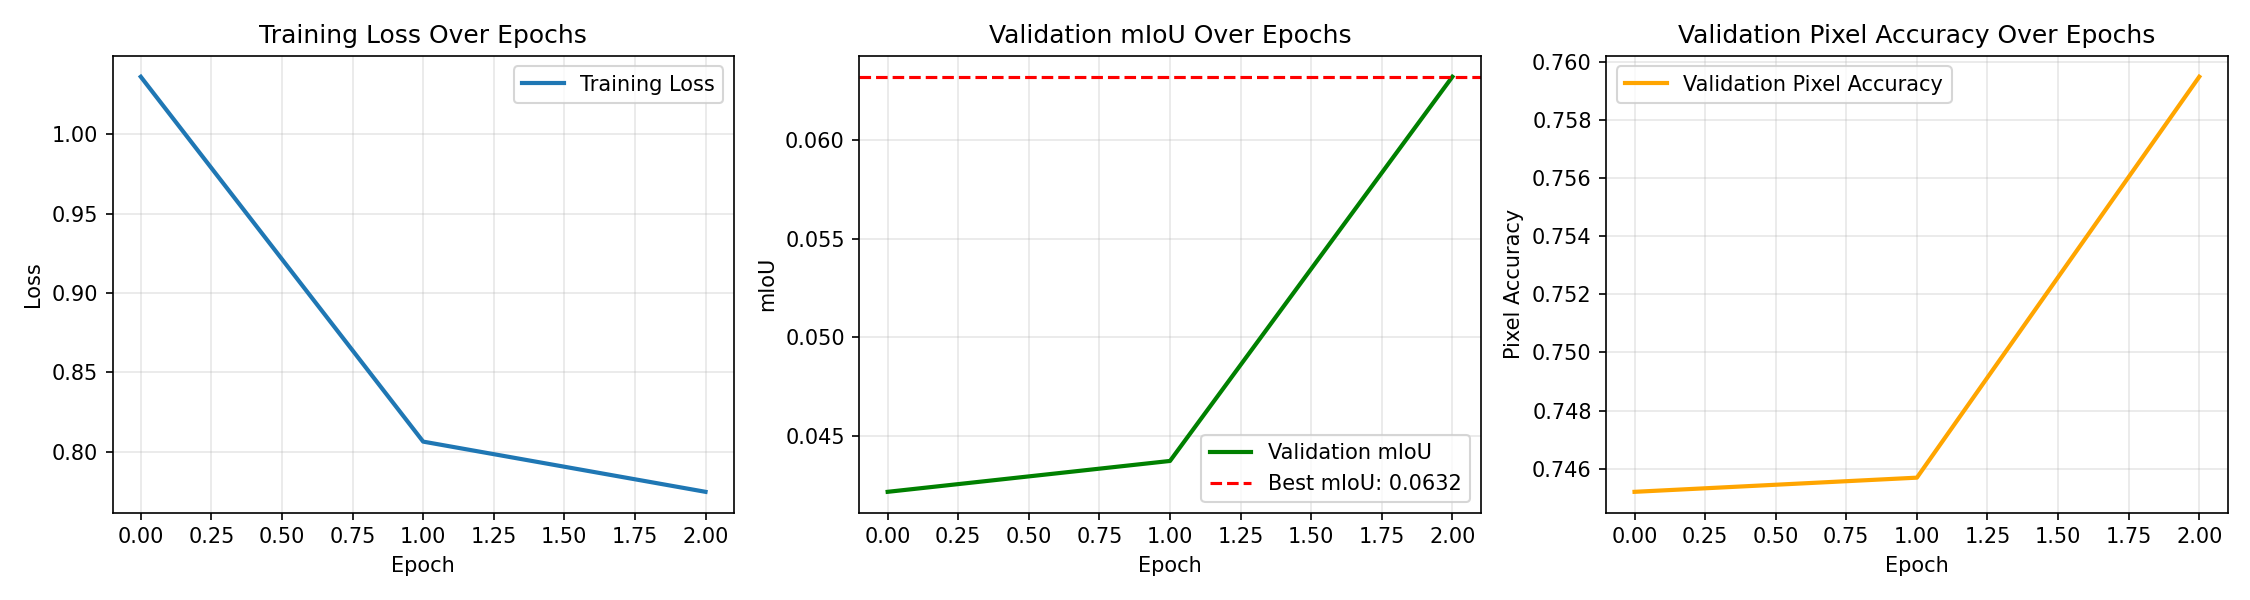
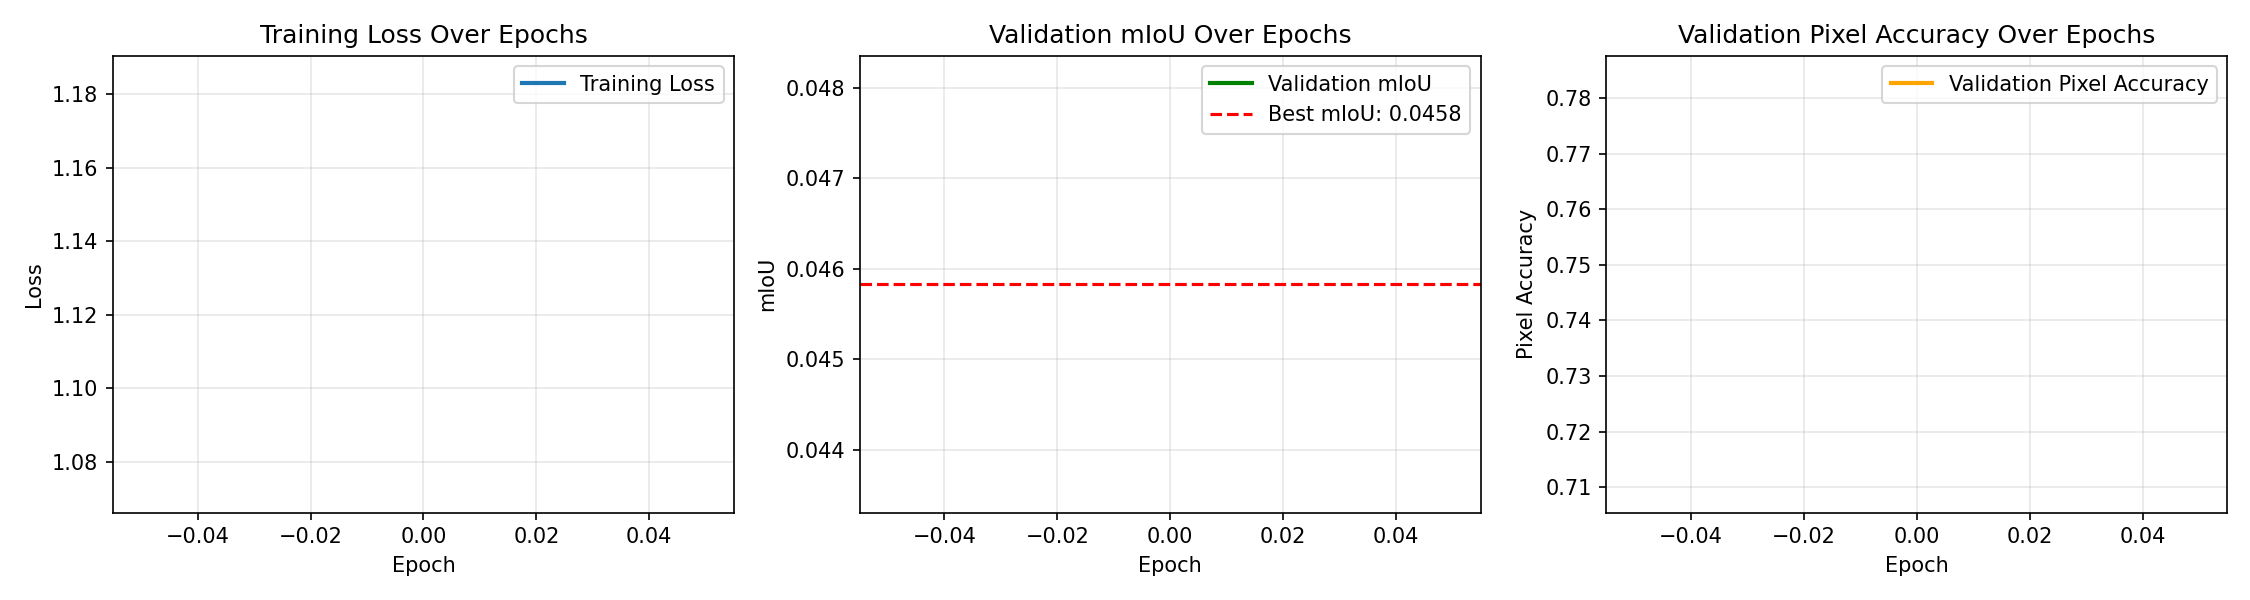
Refactor weight initialization in FCN architectures; update point_labels type for embedding; adjust training epochs and enable training for all models; update model and training curve images.

diff --git a/Advanced_Image_Segmentation/codes/lab05_student.py b/Advanced_Image_Segmentation/codes/lab05_student.py
@@ -212,7 +212,7 @@ class FCN16s(nn.Module):
         return x
     
     def _initialize_weights(self):
-        """Initialize ConvTranspose2d layers with bilinear weights"""
+        """Initialize ConvTranspose2d and score layers with proper weights"""
         for m in self.modules():
             if isinstance(m, nn.ConvTranspose2d):
                 # Initialize with bilinear upsampling weights
@@ -220,6 +220,12 @@ class FCN16s(nn.Module):
                 in_ch, out_ch, h, w = m.weight.data.size()
                 weight = self._get_bilinear_filter(h, w, in_ch, out_ch)
                 m.weight.data.copy_(weight)
+            elif isinstance(m, nn.Conv2d):
+                # Initialize score layers (1x1 conv) with small weights
+                if m.kernel_size == (1, 1):
+                    nn.init.xavier_uniform_(m.weight, gain=0.1)
+                    if m.bias is not None:
+                        nn.init.constant_(m.bias, 0)
     
     def _get_bilinear_filter(self, kernel_h, kernel_w, in_channels, out_channels):
         """Generate bilinear interpolation weights"""
@@ -331,7 +337,7 @@ class FCN8s(nn.Module):
         return out
     
     def _initialize_weights(self):
-        """Initialize ConvTranspose2d layers with bilinear weights"""
+        """Initialize ConvTranspose2d and score layers with proper weights"""
         for m in self.modules():
             if isinstance(m, nn.ConvTranspose2d):
                 # Initialize with bilinear upsampling weights
@@ -339,6 +345,12 @@ class FCN8s(nn.Module):
                 in_ch, out_ch, h, w = m.weight.data.size()
                 weight = self._get_bilinear_filter(h, w, in_ch, out_ch)
                 m.weight.data.copy_(weight)
+            elif isinstance(m, nn.Conv2d):
+                # Initialize score layers (1x1 conv) with small weights
+                if m.kernel_size == (1, 1):
+                    nn.init.xavier_uniform_(m.weight, gain=0.1)
+                    if m.bias is not None:
+                        nn.init.constant_(m.bias, 0)
     
     def _get_bilinear_filter(self, kernel_h, kernel_w, in_channels, out_channels):
         """Generate bilinear interpolation weights"""
@@ -717,7 +729,8 @@ class MiniSAM(nn.Module):
             pos_enc = self.point_pos_embed(points)
             
             # 5. type_enc = self.point_type_embed(point_labels) - Shape: B x N x embed_dim
-            type_enc = self.point_type_embed(point_labels)
+            # Convert point_labels to Long for embedding layer
+            type_enc = self.point_type_embed(point_labels.long())
             
             # 6. point_enc = pos_enc + type_enc
             point_enc = pos_enc + type_enc
@@ -1467,7 +1480,7 @@ def main(model_name=None):
         'n_classes': 21,
         'batch_size': 32,  # RTX 3090: 8→32 (4x increase with 24GB VRAM)
         'learning_rate': 3e-4,  # Increased LR for larger batch size (linear scaling)
-        'epochs': 60,  # Increased from 30 for better convergence with augmentation
+        'epochs': 1,  # Increased from 30 for better convergence with augmentation
         'device': device,
         'image_size': 512,  # RTX 3090: 256→512 (higher resolution for better accuracy)
         'data_dir': '../../voc/VOC2012_train_val/VOC2012_train_val',
@@ -2182,7 +2195,7 @@ if __name__ == "__main__":
     
     # ==================== CONFIGURATION ====================
     # Set which operations to run
-    TRAIN_MODELS = []  # List of models: ['fcn32s', 'fcn16s', 'fcn8s', 'deeplabv3plus', 'minisam']
+    TRAIN_MODELS = ['all']  # List of models: ['fcn32s', 'fcn16s', 'fcn8s', 'deeplabv3plus', 'minisam']
                               # Or use 'all' to train all models sequentially
     RUN_COMPARISON = True     # Compare all trained models
     RUN_INTERACTIVE_DEMO = False  # Run Mini-SAM interactive demo
